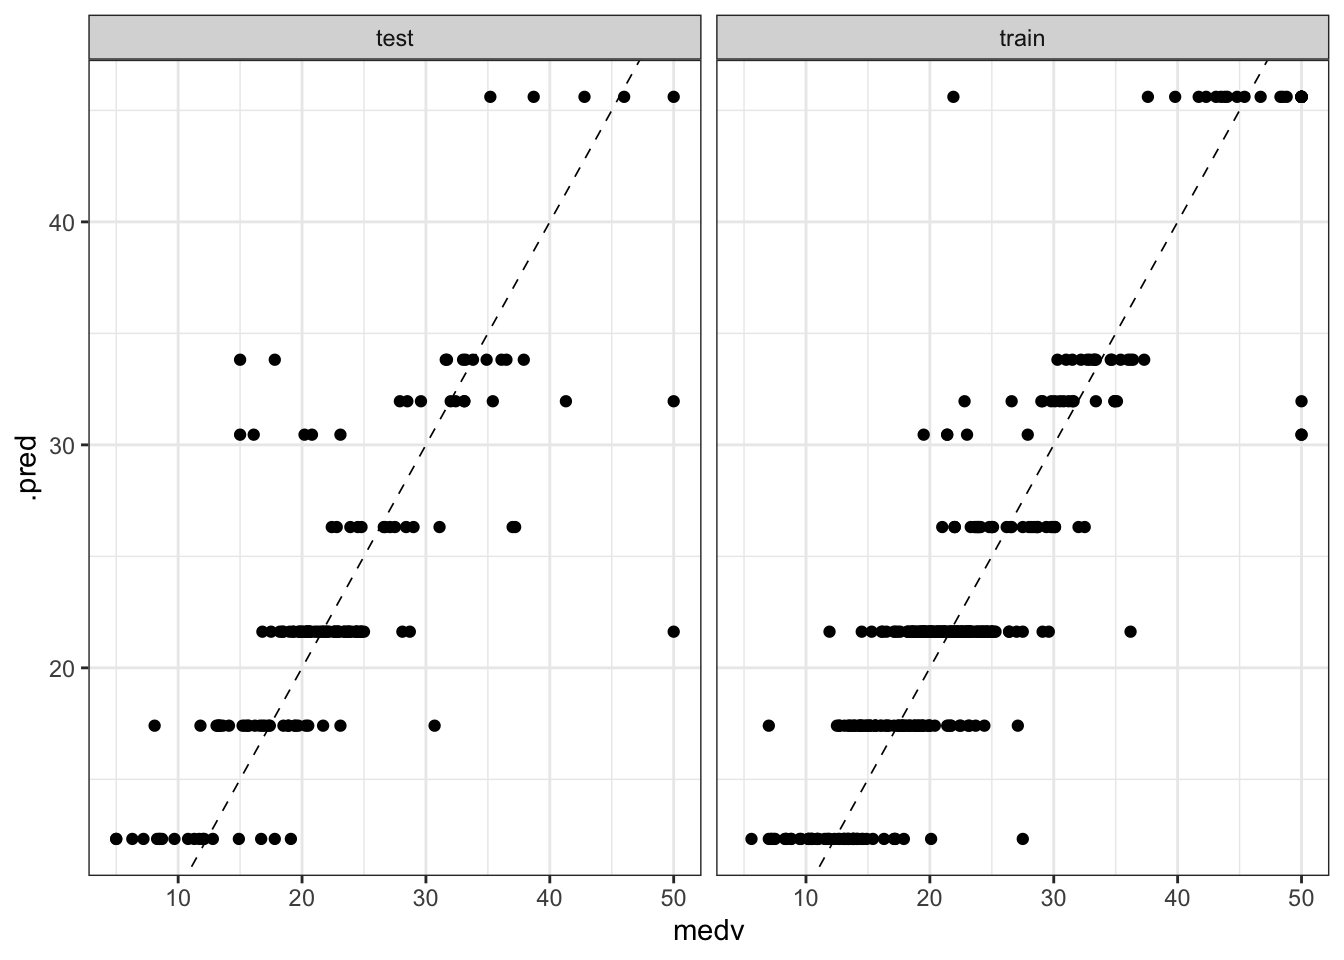
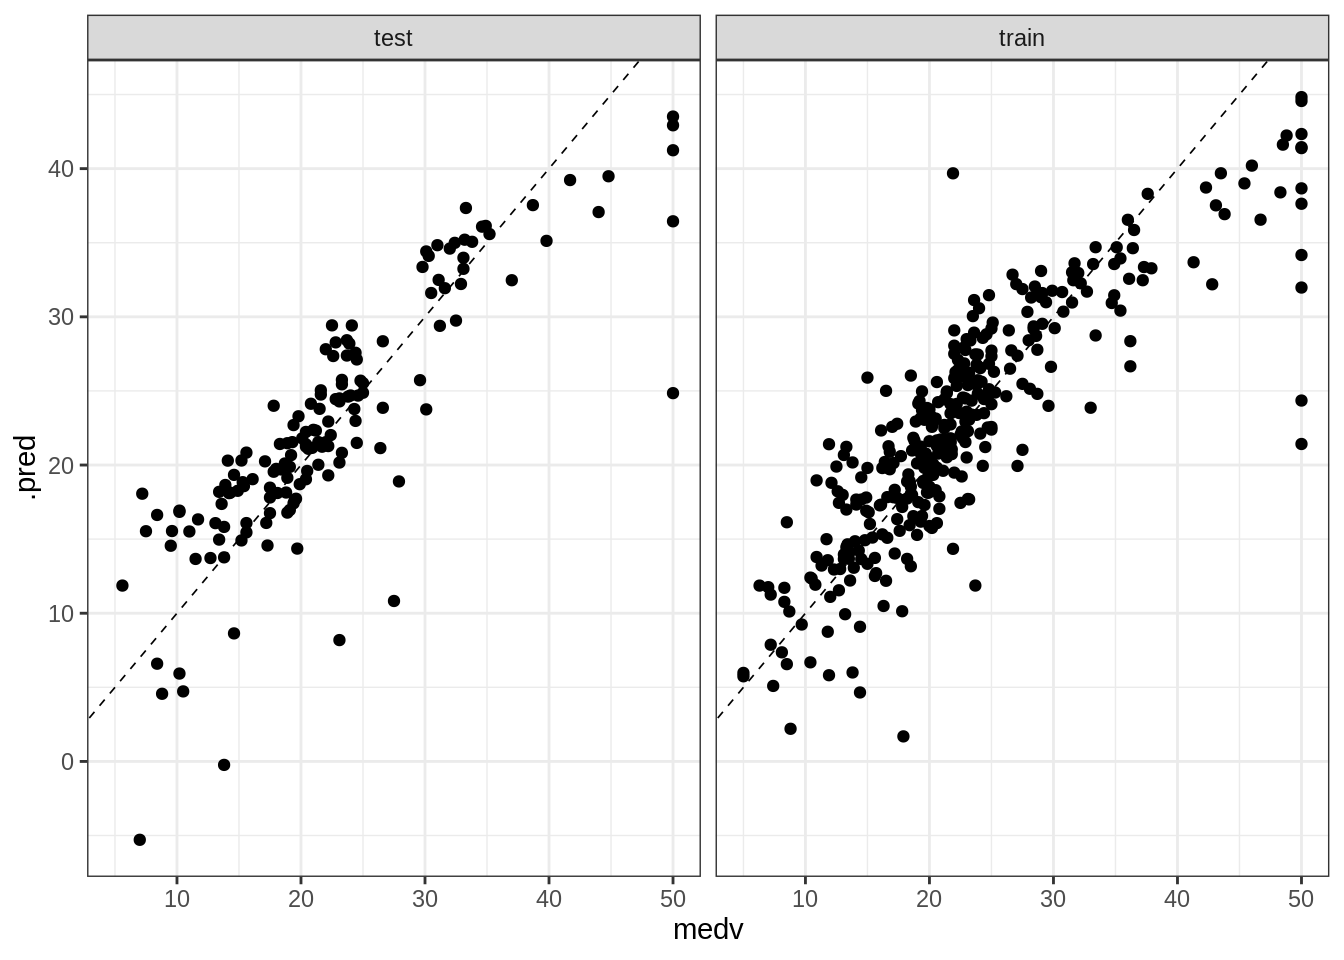
updating numerical prediction

diff --git a/content/blog/2021-05-07-a-workflow-for-numerical-prediction-with-tidymodels/index.html b/content/blog/2021-05-07-a-workflow-for-numerical-prediction-with-tidymodels/index.html
@@ -12,7 +12,6 @@ meta_img: images/image.png
 description: Description for the page
 ---
 
-<script src="{{< blogdown/postref >}}index_files/header-attrs/header-attrs.js"></script>
 
 
 <p><code>tidymodels</code> is a collection of packages for modelling and machine learning in R, drawing on the tools and approach of the <code>tidyverse</code>. In <a href="https://jmsallan.netlify.app/blog/a-workflow-for-binary-classification-with-tidymodels/">a recent post</a> I introduced the basic flow of <code>tidymodels</code> with a small classification example. In this post, I will present some additional features like:</p>
@@ -62,7 +61,7 @@ BostonHousing %&gt;% glimpse()</code></pre>
 </ul>
 <p>As data splitting implies randomness, I have fixed the seed of the pseudo-random number generator to ensure reproducibility.</p>
 <pre class="r"><code>set.seed(1313)
-bh_split &lt;- initial_split(BostonHousing, p = 0.7, strata = &quot;medv&quot;)</code></pre>
+bh_split &lt;- initial_split(BostonHousing, prop = 0.7, strata = &quot;medv&quot;)</code></pre>
 </div>
 <div id="data-preprocessing" class="section level2">
 <h2>Data preprocessing</h2>
@@ -75,11 +74,11 @@ bh_split &lt;- initial_split(BostonHousing, p = 0.7, strata = &quot;medv&quot;)<
   recipe(medv ~ .) %&gt;%
   step_dummy(chas) %&gt;%
   step_corr(all_predictors()) %&gt;%
-  step_nzv(all_predictors()) %&gt;%
+  step_nzv(all_predictors())</code></pre>
+<p>We can see the results of applying the recipe doing <code>prep()</code>:</p>
+<pre class="r"><code>bh_recipe %&gt;%
   prep()</code></pre>
-<p>As we have prepared the recipe with <code>prep()</code> we can see how it is working:</p>
-<pre class="r"><code>bh_recipe</code></pre>
-<pre><code>## Data Recipe
+<pre><code>## Recipe
 ## 
 ## Inputs:
 ## 
@@ -87,13 +86,13 @@ bh_split &lt;- initial_split(BostonHousing, p = 0.7, strata = &quot;medv&quot;)<
 ##    outcome          1
 ##  predictor         13
 ## 
-## Training data contained 356 data points and no missing data.
+## Training data contained 352 data points and no missing data.
 ## 
 ## Operations:
 ## 
 ## Dummy variables from chas [trained]
-## Correlation filter removed tax [trained]
-## Sparse, unbalanced variable filter removed no terms [trained]</code></pre>
+## Correlation filter on tax [trained]
+## Sparse, unbalanced variable filter removed &lt;none&gt; [trained]</code></pre>
 <p>The recipe is removing the <code>tax</code> variable, highly correlated with other variables:</p>
 </div>
 <div id="defining-models-and-workflows" class="section level2">
@@ -120,12 +119,12 @@ bh_rt_wf &lt;- workflow() %&gt;%
 </div>
 <div id="comparing-models-with-cross-validation" class="section level2">
 <h2>Comparing models with cross validation</h2>
-<p>We need to compare the performance of regression tree and linear regression models, preferably with a dataset different to train the model to avoid overfitting. As we cannot make any decision about the model using the test set, we can use a cross validation strategy:</p>
+<p>We need to compare the performance of regression tree and linear regression models, preferably with a dataset different to the used to train the model to avoid overfitting. As we cannot make any decision about the model using the test set, we can use a <strong>cross validation</strong> strategy:</p>
 <ul>
 <li>randomly split the data into <em>v</em> folds <em>f</em> of approximately equal size,</li>
 <li>for each fold <em>f</em>, we train the data with the other <em>f-1</em> folds and assess performance on <em>f</em>,</li>
 <li>optionally we repeat this <code>repeats</code> times,</li>
-<li>we average model performance accross all folds and repeats.</li>
+<li>we average model performance across all folds and repeats.</li>
 </ul>
 <p>We use the <code>vfold_cv</code> function to build the cross validation framework. I am defining three folds and three repeats, so we will perform nine evaluations of each model. With larger datasets, we can split the train set into more folders. We stratify by the dependent variable like in <code>initial_split</code>, so I am setting up againt the random number generator:</p>
 <pre class="r"><code>set.seed(1212)
@@ -141,13 +140,13 @@ bh_folds &lt;- vfold_cv(training(bh_split), strata = &quot;medv&quot;, v = 3, re
 <p>The <strong>coefficient of determination</strong> <span class="math inline">\(R^2\)</span> <code>rsq</code> (where <span class="math inline">\(\bar{y}\)</span> is the mean of <span class="math inline">\(y\)</span>):</p>
 <p><span class="math display">\[ 1- \frac{\sum \left( y_i - \hat{y}_i \right)^2}{\sum \left( y_i - \bar{y} \right)^2} \]</span></p>
 <p>Good predictive models will have values of <code>rmse</code> and <code>mae</code> close to zero, and values of <code>rsq</code> close to one.</p>
-<p>Let’s wrap the three metrics into a <code>metrics_regression</code> <code>metric_set</code>:</p>
+<p>Let’s wrap the three metrics into a <code>metrics_regression</code> object with the <code>metric_set</code> function:</p>
 <pre class="r"><code>metrics_regression &lt;- metric_set(rmse, mae, rsq)</code></pre>
 </div>
 <div id="selecting-a-model-with-cross-validation" class="section level2">
 <h2>Selecting a model with cross validation</h2>
 <p>We use <code>fit_resamples</code> to evaluate each workflow with the cross validation scheme defined in <code>bh_folds</code>. The function will return the values of <code>metrics_regression</code> averaged across all folds and repeats.</p>
-<p>The outputs have <code>tibble</code> format, so I am storing them into variables and adding a column with the <code>model</code> description.</p>
+<p>The outputs have <code>tibble</code> format, so I am storing them and adding a column with the <code>model</code> description.</p>
 <pre class="r"><code>set.seed(1212)
 lm_fit &lt;- fit_resamples(bh_lm_wf, bh_folds, metrics = metrics_regression) %&gt;%
   collect_metrics() %&gt;%
@@ -166,28 +165,28 @@ rt_fit &lt;- fit_resamples(bh_rt_wf, bh_folds, metrics = metrics_regression) %&g
   labs(y = &quot;confidence interval&quot;) +
   facet_grid(. ~ .metric)</code></pre>
 <p><img src="{{< blogdown/postref >}}index_files/figure-html/unnamed-chunk-9-1.png" width="672" /></p>
-<p>We observe that the regression tree model has slightly better metrics than linear regression. Let’s present each of them in tabular form:</p>
+<p>We observe that linear tree model has slightly better metrics than regression trees. Let’s present each of them in tabular form:</p>
 <pre class="r"><code>lm_fit %&gt;%
   select(model, .metric, mean, std_err)</code></pre>
-<pre><code>## # A tibble: 3 x 4
+<pre><code>## # A tibble: 3 × 4
 ##   model .metric  mean std_err
 ##   &lt;chr&gt; &lt;chr&gt;   &lt;dbl&gt;   &lt;dbl&gt;
-## 1 lm    mae     3.70   0.0755
-## 2 lm    rmse    5.13   0.166 
-## 3 lm    rsq     0.709  0.0124</code></pre>
+## 1 lm    mae     3.51   0.0765
+## 2 lm    rmse    5.09   0.183 
+## 3 lm    rsq     0.701  0.0183</code></pre>
 <pre class="r"><code>rt_fit %&gt;%
   select(model, .metric, mean, std_err)</code></pre>
-<pre><code>## # A tibble: 3 x 4
+<pre><code>## # A tibble: 3 × 4
 ##   model .metric  mean std_err
 ##   &lt;chr&gt; &lt;chr&gt;   &lt;dbl&gt;   &lt;dbl&gt;
-## 1 rt    mae     3.16   0.0666
-## 2 rt    rmse    4.63   0.180 
-## 3 rt    rsq     0.761  0.0128</code></pre>
+## 1 rt    mae     3.45   0.0747
+## 2 rt    rmse    5.15   0.158 
+## 3 rt    rsq     0.698  0.0188</code></pre>
 </div>
 <div id="fitting-the-chosen-model-with-the-train-test" class="section level2">
 <h2>Fitting the chosen model with the train test</h2>
 <p>We have chosen regression trees to predict data. Let’s fit the model to the whole train set:</p>
-<pre class="r"><code>fitted_model &lt;- bh_rt_wf %&gt;%
+<pre class="r"><code>fitted_model &lt;- bh_lm_wf %&gt;%
   fit(training(bh_split))</code></pre>
 <p>And evaluate the metrics on the same train set:</p>
 <pre class="r"><code>predict_train &lt;- fitted_model %&gt;%
@@ -197,12 +196,12 @@ rt_fit &lt;- fit_resamples(bh_rt_wf, bh_folds, metrics = metrics_regression) %&g
 
 predict_train %&gt;%
   metrics_regression(truth = medv, estimate = .pred)</code></pre>
-<pre><code>## # A tibble: 3 x 3
+<pre><code>## # A tibble: 3 × 3
 ##   .metric .estimator .estimate
 ##   &lt;chr&gt;   &lt;chr&gt;          &lt;dbl&gt;
-## 1 rmse    standard       4.00 
-## 2 mae     standard       2.83 
-## 3 rsq     standard       0.817</code></pre>
+## 1 rmse    standard       4.74 
+## 2 mae     standard       3.29 
+## 3 rsq     standard       0.733</code></pre>
 </div>
 <div id="evaluating-performance-on-the-test-set" class="section level2">
 <h2>Evaluating performance on the test set</h2>
@@ -214,14 +213,14 @@ predict_train %&gt;%
 
 predict_test %&gt;%
   metrics_regression(truth = medv, estimate = .pred)</code></pre>
-<pre><code>## # A tibble: 3 x 3
+<pre><code>## # A tibble: 3 × 3
 ##   .metric .estimator .estimate
 ##   &lt;chr&gt;   &lt;chr&gt;          &lt;dbl&gt;
-## 1 rmse    standard       5.34 
-## 2 mae     standard       3.46 
-## 3 rsq     standard       0.632</code></pre>
-<p>We observe that the metrics on the test set are worse than on the train set, so the chosen model has slight variance.</p>
-<p>We can also visualize the <strong>predicted vs real</strong> value for each dataset. Ideally, most of the dots of this plot should be over the dashed line of intercept zero and slope one.</p>
+## 1 rmse    standard       4.85 
+## 2 mae     standard       3.40 
+## 3 rsq     standard       0.725</code></pre>
+<p>We observe that the metrics on the test set are worse than on the train set, so the chosen model has slight overfit.</p>
+<p>We can also visualize the <strong>predicted vs real</strong> value for each dataset. Ideally, most of the dots of these plots should be over the dashed line of intercept zero and slope one.</p>
 <pre class="r"><code>bind_rows(predict_train, predict_test) %&gt;%
   ggplot(aes(medv, .pred)) +
   geom_point() +
@@ -229,7 +228,7 @@ predict_test %&gt;%
   facet_grid(. ~ sample) +
   theme_bw()</code></pre>
 <p><img src="{{< blogdown/postref >}}index_files/figure-html/unnamed-chunk-14-1.png" width="672" /></p>
-<p>From the plot, we observe that the model has collapsed all possible values of <code>medv</code> into seven values, which are the same for the train and test sets. This is a result of the <a href="https://en.wikipedia.org/wiki/Recursive_partitioning">recursive partitioning</a> strategy adopted by regression tree models. Data are grouped into seven subsets, and all elements of each subset are predicted with the same value. As a result, some observations for each of the seven groups have a poor fit.</p>
+<p>From the plots, we observe a similar pattern in the test and train sets.</p>
 </div>
 <div id="references" class="section level2">
 <h2>References</h2>
@@ -238,5 +237,51 @@ predict_test %&gt;%
 <li>Harrison, D. and Rubinfeld, D.L. (1978). Hedonic prices and the demand for clean air. <em>Journal of Environmental Economics and Management</em>, 5, 81–102.</li>
 <li>Therneau, T. M. and Atkinson, E. J. (2019). <em>An Introduction to Recursive Partitioning Using the RPART Routines</em>. Available at: <a href="https://cran.r-project.org/web/packages/rpart/vignettes/longintro.pdf" class="uri">https://cran.r-project.org/web/packages/rpart/vignettes/longintro.pdf</a></li>
 </ul>
-<p><em>Built with R 4.0.3 and tidymodels 0.1.2</em></p>
+<pre><code>## R version 4.2.0 (2022-04-22)
+## Platform: x86_64-pc-linux-gnu (64-bit)
+## Running under: Linux Mint 19.2
+## 
+## Matrix products: default
+## BLAS:   /usr/lib/x86_64-linux-gnu/openblas/libblas.so.3
+## LAPACK: /usr/lib/x86_64-linux-gnu/libopenblasp-r0.2.20.so
+## 
+## locale:
+##  [1] LC_CTYPE=es_ES.UTF-8       LC_NUMERIC=C              
+##  [3] LC_TIME=es_ES.UTF-8        LC_COLLATE=es_ES.UTF-8    
+##  [5] LC_MONETARY=es_ES.UTF-8    LC_MESSAGES=es_ES.UTF-8   
+##  [7] LC_PAPER=es_ES.UTF-8       LC_NAME=C                 
+##  [9] LC_ADDRESS=C               LC_TELEPHONE=C            
+## [11] LC_MEASUREMENT=es_ES.UTF-8 LC_IDENTIFICATION=C       
+## 
+## attached base packages:
+## [1] stats     graphics  grDevices utils     datasets  methods   base     
+## 
+## other attached packages:
+##  [1] rpart_4.1.16       mlbench_2.1-3      yardstick_0.0.9    workflowsets_0.2.1
+##  [5] workflows_0.2.6    tune_0.2.0         tidyr_1.2.0        tibble_3.1.6      
+##  [9] rsample_0.1.1      recipes_0.2.0      purrr_0.3.4        parsnip_0.2.1     
+## [13] modeldata_0.1.1    infer_1.0.0        ggplot2_3.3.5      dplyr_1.0.9       
+## [17] dials_0.1.1        scales_1.2.0       broom_0.8.0        tidymodels_0.2.0  
+## 
+## loaded via a namespace (and not attached):
+##  [1] lubridate_1.8.0    DiceDesign_1.9     tools_4.2.0        backports_1.4.1   
+##  [5] bslib_0.3.1        utf8_1.2.2         R6_2.5.1           DBI_1.1.2         
+##  [9] colorspace_2.0-3   nnet_7.3-17        withr_2.5.0        tidyselect_1.1.2  
+## [13] compiler_4.2.0     cli_3.3.0          labeling_0.4.2     bookdown_0.26     
+## [17] sass_0.4.1         stringr_1.4.0      digest_0.6.29      rmarkdown_2.14    
+## [21] pkgconfig_2.0.3    htmltools_0.5.2    parallelly_1.31.1  lhs_1.1.5         
+## [25] highr_0.9          fastmap_1.1.0      rlang_1.0.2        rstudioapi_0.13   
+## [29] farver_2.1.0       jquerylib_0.1.4    generics_0.1.2     jsonlite_1.8.0    
+## [33] magrittr_2.0.3     Matrix_1.4-1       Rcpp_1.0.8.3       munsell_0.5.0     
+## [37] fansi_1.0.3        GPfit_1.0-8        lifecycle_1.0.1    furrr_0.3.0       
+## [41] stringi_1.7.6      pROC_1.18.0        yaml_2.3.5         MASS_7.3-57       
+## [45] plyr_1.8.7         grid_4.2.0         parallel_4.2.0     listenv_0.8.0     
+## [49] crayon_1.5.1       lattice_0.20-45    splines_4.2.0      knitr_1.39        
+## [53] pillar_1.7.0       future.apply_1.9.0 codetools_0.2-18   glue_1.6.2        
+## [57] evaluate_0.15      blogdown_1.9       vctrs_0.4.1        foreach_1.5.2     
+## [61] gtable_0.3.0       future_1.25.0      assertthat_0.2.1   xfun_0.30         
+## [65] gower_1.0.0        prodlim_2019.11.13 class_7.3-20       survival_3.2-13   
+## [69] timeDate_3043.102  iterators_1.0.14   hardhat_0.2.0      lava_1.6.10       
+## [73] globals_0.14.0     ellipsis_0.3.2     ipred_0.9-12</code></pre>
+<p>Updated at 2022-06-08 15:40:22.</p>
 </div>
